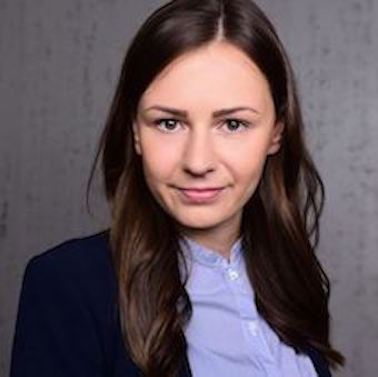
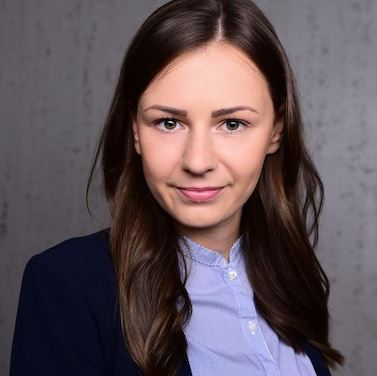
Add styling

diff --git a/src/styles/index.css b/src/styles/index.css
@@ -17,13 +17,12 @@ body {
 
 main {
   display: grid;
-  grid-template-rows: auto auto auto auto auto auto;
+  grid-template-rows: repeat (6, auto);
   grid-template-columns: 100%;
 }
 
 a {
   text-decoration: none;
-  border-bottom: 1px solid;
 }
 
 h2,
@@ -31,9 +30,13 @@ h3 {
   font-size: 125%;
 }
 
+img {
+  border-radius: 10px;
+}
+
 header {
   display: grid;
-  grid-template-rows: auto auto;
+  grid-template-rows: repeat (2, auto);
   grid-template-columns: 5fr 2fr;
   background-color: #e9e6e8;
   padding: 5px;
@@ -52,20 +55,16 @@ header {
   border-radius: 10px;
 }
 
-.profilepic {
-  border-radius: 10px;
-}
-
 .interests {
   background-color: #e9e6e8;
-  padding: 5px;
+  padding: 5px 5px 5px 8px;
   border-radius: 10px;
 }
 
 .skillslist {
   display: grid;
   grid-template-rows: auto;
-  grid-template-columns: 180px 180px;
+  grid-template-columns: 1fr 1.2fr;
   align-items: start;
 }
 
@@ -82,7 +81,7 @@ header {
   grid-template-rows: 30% 70%;
   grid-template-columns: 33% 33% 33%;
   justify-content: space-evenly;
-  padding: 5px 5px 20px 5px;
+  padding: 5px 5px 20px 8px;
   border-radius: 10px;
 }
 
@@ -99,7 +98,7 @@ header {
 .aboutme {
   background-color: #e9e6e8;
   color: black;
-  padding: 5px;
+  padding: 5px 5px 5px 8px;
   border-radius: 10px;
 }
 
@@ -107,9 +106,13 @@ header {
   display: grid;
   grid-template-rows: auto;
   grid-template-columns: 30% 70%;
-  padding: 5px;
+  padding: 5px 5px 5px 8px;
   border-radius: 10px;
   list-style: none;
+}
+
+.work-title {
+  padding-left: 8px;
 }
 
 .year {
@@ -120,20 +123,25 @@ header {
   display: grid;
   grid-template-rows: auto;
   grid-template-columns: 30% 70%;
-  padding: 0 5px 20px 5px;
+  padding: 0 5px 20px 8px;
   border-radius: 10px;
   list-style: none;
+}
+
+.education-title {
+  padding-left: 8px;
 }
 
 .footer {
   background-color: #9a9792;
   border-radius: 10px 10px 0 0;
+  padding-left: 8px;
 }
 
 @media (min-width: 750px) {
   main {
     grid-template-columns: 50% 50%;
-    grid-template-rows: auto auto auto;
+    grid-template-rows: repeat (3, auto);
     grid-auto-flow: dense;
   }
 }

diff --git a/src/index.html b/src/index.html
@@ -15,13 +15,18 @@
     <header id="header">
       <h1>Eileen Fürstenau</h1>
       <nav class="mainnav">
-        <a href="#contact">Contact</a>
         <a href="#bio">Bio</a>
+        <a href="#contact">Contact</a> 
       </nav>
     </header>
     <main>
       <section class="intro">
-        <img src="images/eileen.jpg" alt="" class="profilepic" /> <br />
+        <picture>
+          <source media="(max-width: 1049px)" srcset="images/eileen.jpg">
+          <source media="(min-width: 1050px)" srcset="images/profilgross.jpg">
+          <img src="images/eileen.jpg" alt="">
+        </picture>
+        <br />
         Former Sales Manager, <br />
         on my way to become a Web Developer.
       </section>
@@ -31,7 +36,7 @@
           <li>Sales Management</li>
           <progress value="90" max="100" class="progress"></progress>
           <li>
-            SW Support Services
+            Strategic Planning
           </li>
           <progress value="80" max="100" class="progress"></progress>
           <li>
@@ -45,7 +50,7 @@
           <li>Price Calculation</li>
           <progress value="70" max="100" class="progress"></progress>
           <li>Contract Law </progress></li>
-          <progress value="60" max="100" class="progress"></progress>
+          <progress value="70" max="100" class="progress"></progress>
         </ul>
         <h2>Interests</h2>
         <ul>
@@ -83,7 +88,7 @@
         <h3 class="work-title">Work Experience</h3>
         <ul class="work">
             <li class="year">2020 - 2020 </li>
-            <li class="work-item">Sales Manager, IBM Corp.> </li>
+            <li class="work-item">Sales Manager, IBM Corp </li>
             <li class="year">2019 - 2019 </li>
             <li class="work-item">Sabbatical & Worldtrip</li>
             <li class="year">2018 - 2018</li>
